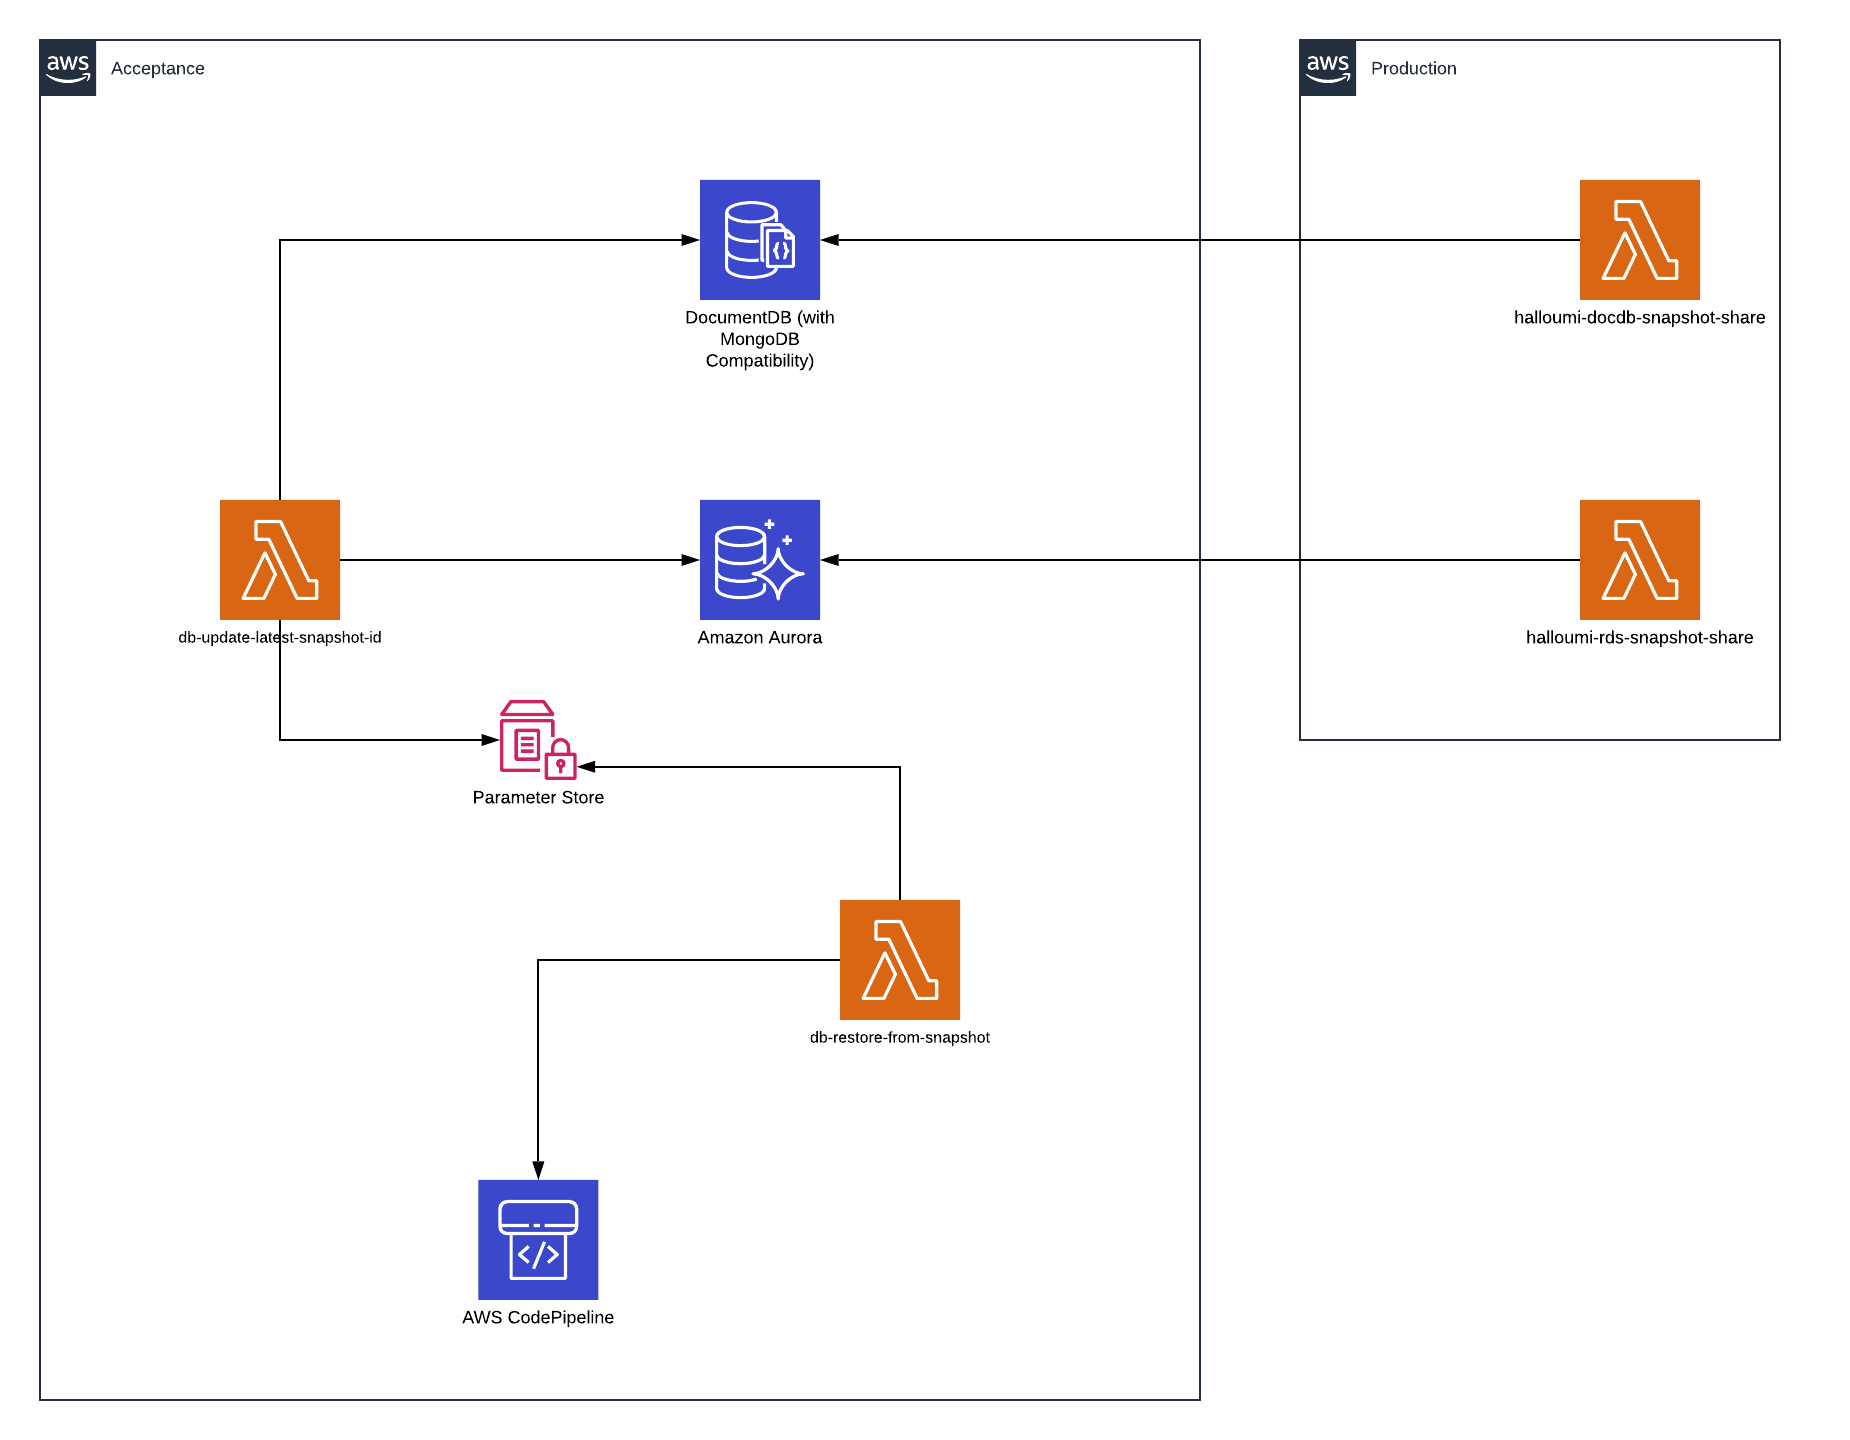
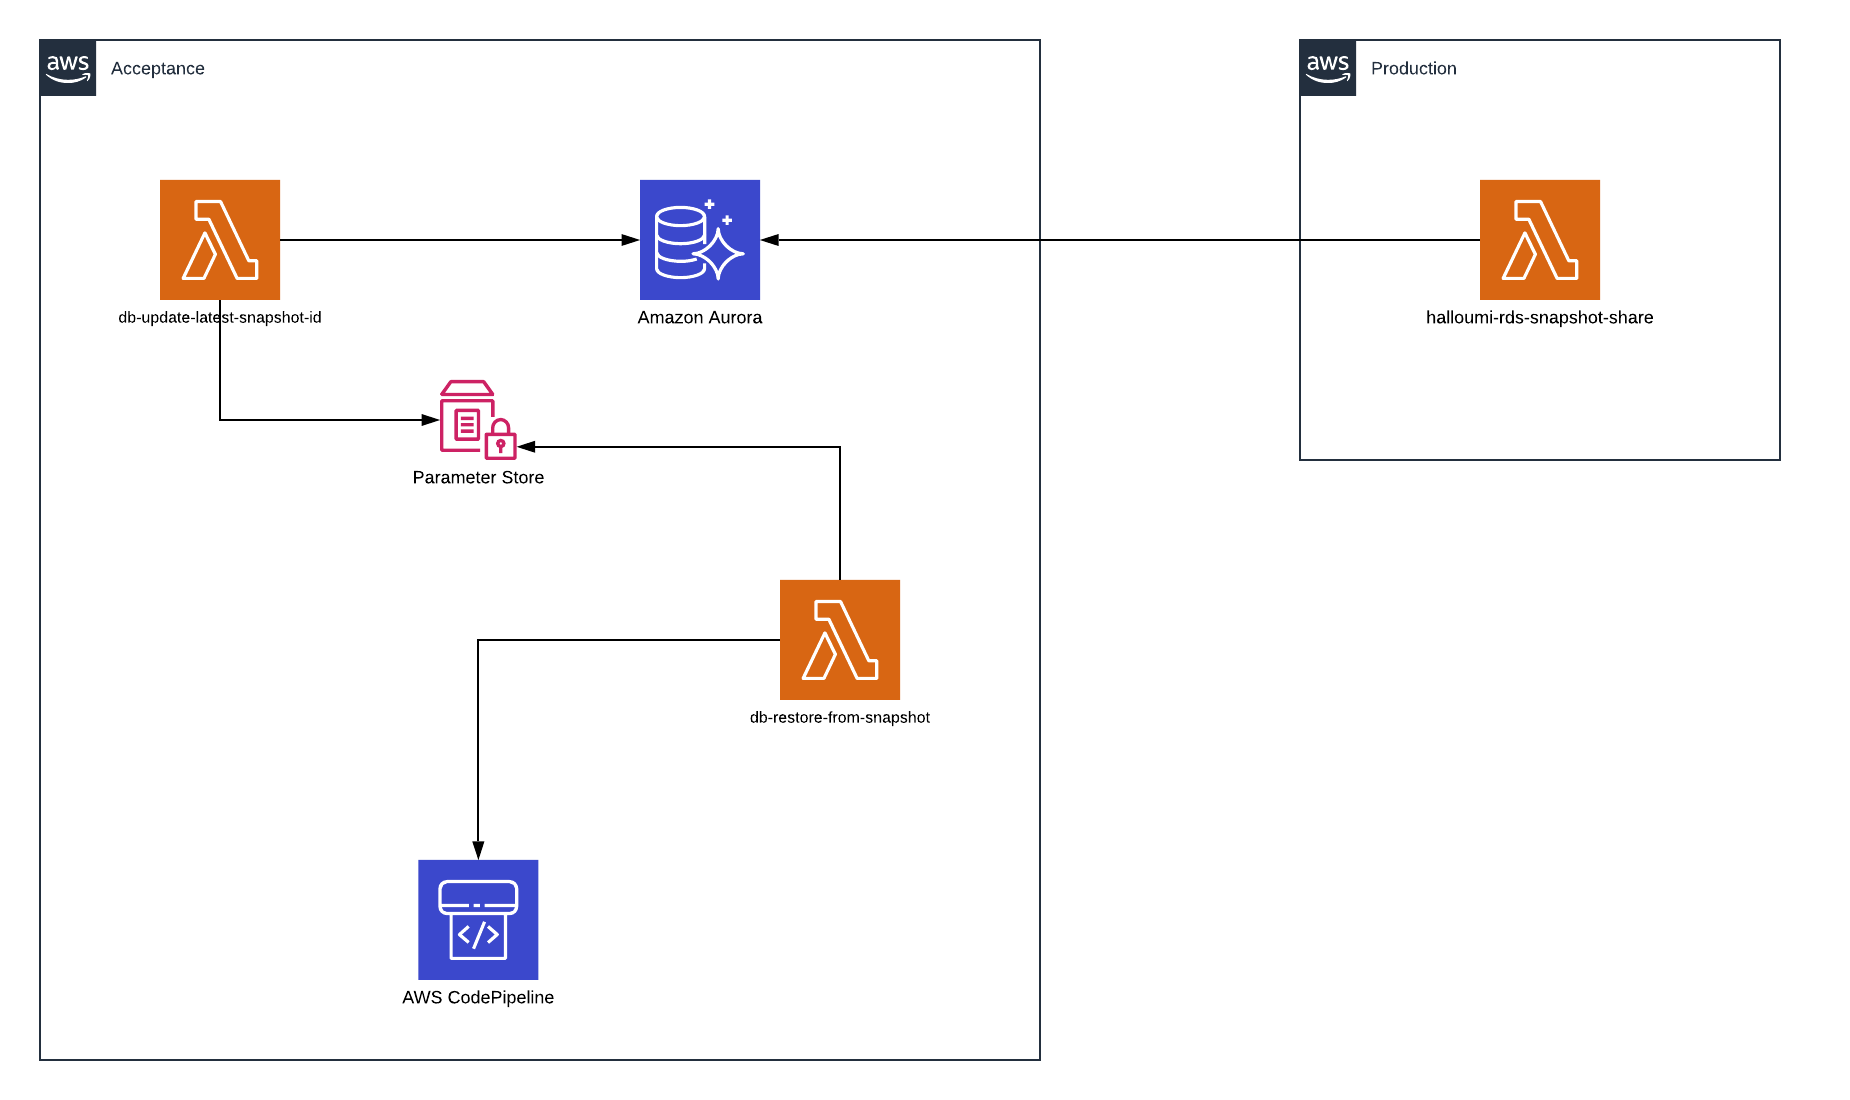
splitting it in 2 + edit Aurora part

diff --git a/db_autorestore.md b/db_autorestore.md
@@ -1,40 +1,35 @@
-# Automated database update and restore with AWS Lambda functions
+# Automated database update and restore with AWS Lambda functions for AWS Aurora
 
 The roadmap to cloud adoption can be difficult to set and implement, but once it is completed it offers a lot of flexibility, a lot of space for continuous improvement and a lot of room for creativity to build new solutions.
-Having automated processes helps your company to focus on what is important for the business and lets the developers experiment more and efficiently optimize their work. 
-One of the latest things I've been working on involves a task that needed to be continued after the client's solution was already moved to the cloud. What I liked about it was that it is not only taking the advantage of being in the cloud, it also involves serverless technology that I consider to be the next level of cloud solutions.
+Having automated processes helps the company to focus on what is important for the business and lets the developers experiment more and efficiently optimize their work. 
+One of the latest things I've been working on involves a task that needed to be continued after the client's solution was already moved to the cloud. What I liked about it was that it is not only taking the advantage of being in the cloud, it also involves serverless technology that I consider to be the next level of cloud solutions. The task involved both AWS Aurora and AWS DocumentDB databases, and I will make a separate article about the second one since there are some differences to be presented and discussed.
 
 ## Scenario
 Our customer has 2 different AWS accounts:
  * Acceptance
  * Production
 
- All changes made in the production account should be (every two weeks) synchronised to their acceptance account for regression testing in the acceptance account. The databases used are AWS DocumentDB and AWS Aurora.
+All changes made in the production account should be (every two weeks) synchronised to their acceptance account for regression testing in the acceptance account.
 The old way of doing this with the on-prem infrastructure was to manually run some commands and update the databases.
 The process should be done in the maintenance window, which implies working in the night/early morning when nobody is using the databases.
-The big advantage of having the solution in the cloud is that it can easly be automated using services that bring low or no cost at all, and that this solution needs no human interaction.
 
 ## Solution overview
 The solution we agreed on was to split the process in 2 main parts having 2 AWS Lambda functions:
  * first one, *db-update-latest-snapshot-id*, will mainly focus on preparing the environment:
-    - copy the shared DocumentDB snapshot (because we can’t restore from it directly, see [this](https://docs.aws.amazon.com/documentdb/latest/developerguide/backup_restore-share_cluster_snapshots.html) article)
-    - check the latest copied snapshot for DocumentDB and the latest shared snapshot for Aurora
-    - update the latest snapshot id parameters in AWS SSM Parameter Store 
+    - check the latest shared snapshot for Aurora
+    - update the latest snapshot id parameter in AWS SSM Parameter Store 
  * the second one, *db-restore-from-snapshot*, will mainly focus on triggering the update and restore process:
-    - will copy the latest snapshot ID value to the current snapshot ID and then trigger the main pipeline to deploy the changes and restore the databasess from the latest snapshots
-I took advantage of the already existing AWS Lambda functions that are sharing the database snapshots from one account to the other. The sharing part is not in the scope of this article but it was ilustrated for a better view of the solution.
-Having two lambda functions with a small defined taks, is not only best practise of AWS, but gives also the flexibility to copy/share more frequently without a real restore being done.
+    - will copy the latest snapshot ID value to the current snapshot ID and then trigger the main pipeline to deploy the changes and restore the database from the latest snapshots
+I took advantage of the already existing AWS Lambda functions that are sharing the database snapshots from one account to the other. The sharing part is not in the scope of this article but it was illustrated for a better view of the solution.
 
-In AWS SSM Parameter Store, I have created 5 parameters:
+In AWS SSM Parameter Store, I have created 3 parameters:
 
- * aurora_current_snapshot_id
- * aurora_latest_snapshot_id
- * documentdb_current_snapshot_id 
- * documentdb_latest_snapshot_id
+ * ssm_rds_current_snapshot_name
+ * ssm_rds_latest_snapshot_name
  * main_cicd_name
 
-The current value will be the one from which the databases are restored from and the latest value will be the value of the most recent snapshot that exists in the account for DocumentDB or Aurora.
-We need to have 2 different parameters, one for the current and one for the latest snapshot, to be able to restore the databases from a specific snapshot ID outside of this process and not directly trigger a restore when the pipeline is running but restore on a pre-defined time/date.
+The current value will be the one from which the database is restored from and the latest value will be the value of the most recent snapshot that exists in the account.
+We need to have 2 different parameters, one for the current and one for the latest snapshot, to be able to restore the database from a specific snapshot ID outside of this process and not directly trigger a restore when the pipeline is running but restore on a pre-defined time/date.
 There are 2 pipeline in the account, so the name of the main pipeline, the one that is deploying the infrastructure, was needed.
 
 The entire solution was written using IaC in AWS CDK with Python.
@@ -42,20 +37,69 @@ The entire solution was written using IaC in AWS CDK with Python.
 ![Architecture](db_autorestore.png)
 
 ## How does it work
+First lets look at how the parameters are defined in code. We have been using environment variables and a custom function that gets the environment variable value *get_optional*. There is an existing process of restoring the database from a specific snapshot ARN from the environment variables, and this is why we use the check for the *current_rds_backup_snapshot* parameter. If it exists it will update the parameter with this value. For the *ssm_rds_latest_snapshot_name* a dummy value was used because you can't create an SSM parameter with an empty value. 
+
+```Python
+current_rds_backup_snapshot = get_optional(
+    'DATABASE_BACKUP_SNAPSHOT_ID_ARN',
+    None
+)
+
+ssm_rds_current_snapshot_name = get_optional(
+    'SSM_RDS_CURRENT_SNAPSHOT_NAME',
+    None
+)
+
+ssm_rds_latest_snapshot_name = get_optional(
+    'SSM_RDS_LATEST_SNAPSHOT_NAME',
+    None
+)
+
+main_cicd_name = get_optional(
+    'SSM_MAIN_CICD_NAME',
+    None
+)
+
+resources = []
+if current_rds_backup_snapshot:
+    current_arn = ssm.StringParameter(
+        scope,
+        f'{config["stack_name"]}RdsCurrentSnapshotArn',
+        parameter_name=ssm_rds_current_snapshot_name,
+        string_value=current_rds_backup_snapshot
+    )
+    resources.append(current_arn.parameter_arn)
+
+rds_ssm = ssm.StringParameter(
+    scope,
+    f'{config["stack_name"]}RdsLatestSnapshotArn',
+    parameter_name=ssm_rds_latest_snapshot_name,
+    string_value='dummyvalue'
+)
+resources.append(rds_ssm.parameter_arn)
+
+main_cicd_ssm = ssm.StringParameter.from_string_parameter_name(
+    scope,
+    f'{config["stack_name"]}MainPipelineName',
+    string_parameter_name=main_cicd_name,
+)
+main_cicd_name_value = main_cicd_ssm.string_value
+resources.append(main_cicd_ssm.parameter_arn)
+resources.append(f'arn:aws:codepipeline:*:*:{main_cicd_name_value}')
+```
+
 Using a cronjob the update function (*db-update-latest-snapshot-id*) will run every 2 weeks at 2 AM.
 This function has the following tasks/functions:
 
-* *copy_docdb_snapshot* - checks for the latest DocumentDB shared and manual snapshot, and it takes the latest value for both of them. It then checks if the latest shared snapshot is already copied and if not, it will copy that one, if yes, it will return a nice message. 
-
 * *get_latest_rds_snapshots* - checks for the latest shared snapshot for Aurora DB and it gets the latest one.
 
-* *update_ssm* - it will update the SSM Parameter store with the new values of the latest snapshots in *documentdb_latest_snapshot_id* and in *aurora_latest_snapshot_id*.
+* *update_ssm* - it will update the SSM Parameter store with the new values of the latest snapshots in in *aurora_latest_snapshot_id*.
 
 And this is it for the update process.
 Now for the restore is even simpler. Using another cronjob the restore function  (*db-restore-from-snapshot*) will run every 2 weeks, 2 hours later than the update process.
 The tasks of this functions are:
 
-* *update_current* - it gets the value from the latest parameters and copies it to the current one. Now the value of the *documentdb_current_snapshot_id* will be updated with the value of *documentdb_latest_snapshot_id*. The pipeline will check the value of the current parameters. We have split this process with latest and current parameters to facilitate the restore from a snapshot in other cases than the ones described in this article as menioned above.
+* *update_current* - it gets the value from the latest parameters and copies it to the current one. Now the value of the *ssm_rds_current_snapshot_name* will be updated with the value of *ssm_rds_latest_snapshot_name*. The pipeline will check the value of the current parameters. We have split this process with latest and current parameters to facilitate the restore from a snapshot in other cases than the ones described in this article as menioned above.
 
 * trigger the deployment pipeline using the *main_cicd_name* from the SSM Parameter Store
 
@@ -67,24 +111,24 @@ The tasks of this functions are:
     ```
 
 ## Small bumps
-The process of finding out a solution was challenging in each phase of implementation. At the beginning we tried to find a solution that will come on top of the existing one and work to improve it. In the process of implementing the solution with Lambda functions there was the problem of identifying the exact snapshot we need, which of course was just a matter of knowing what you want to extract and reading the documentation. For example, the process of checking the available shared snapshot for the DocumentDB is looking like this:
+The process of finding out a solution was challenging in each phase of implementation. At the beginning we tried to find a solution that will come on top of the existing one and work to improve it. In the process of implementing the solution with Lambda functions there was the problem of identifying the exact snapshot we need, which of course was just a matter of knowing what you want to extract and reading the documentation. For example, the process of checking the available shared snapshot is looking like this:
 
 ```Python
-docdb_shared_snapshots = docdb_client.describe_db_cluster_snapshots(
+rds_shared_snapshots = rds_client.describe_db_cluster_snapshots(
         SnapshotType='shared',
         IncludeShared=True
     )
 
-# Check available DocDB shared snapshots
-    docdb_shared_snapshots_source = []
-    for snap in docdb_shared_snapshots['DBClusterSnapshots']:
+    # Check available RDS shared snapshots from the source account
+    rds_snapshots_source = []
+    for snap in rds_shared_snapshots['DBClusterSnapshots']:
         source_account_id = snap['DBClusterSnapshotIdentifier'].split(':')[4]
         if snap['Status'] == 'available' and \
            source_account_id == source_account and \
-           snap['EngineVersion'] == docdb_engine_version:
-            docdb_shared_snapshots_source.append(snap)
+           snap['EngineVersion'] == rds_engine_version:
+            rds_snapshots_source.append(snap)
 ```
 
-So we had to select from all the snapshots the ones that are having a specific source account ID, that are available and that are specific for DocumentDB.
+So we had to select from all the snapshots the ones that are having a specific source account ID, that are available and that are specific for Aurora engine (MySQL or PostgreSQL).
 ## Conclusion
-Even with the small bumps we had, this solution is pretty easy to implement in the AWS cloud. The solution not only saves time and money, but also protects the environment against the human errors that can easily happen at that time at night when databases operations are implemented. With the manual task out of the way the developers can focus on other important tasks and also on bringing more automation to the solution as well.
+Even with the small bumps we had, this solution is pretty easy to implement in the AWS cloud. The solution not only saves time and money, but also protects the environment against the human errors that can easily happen at that time at night when databases operations are implemented. With the manual task out of the way the developers can focus on other important tasks and also on bringing more automation to the solution as well. Stay tunned for the DocumentDB scenario to see what are the differences and how can you make it work.
